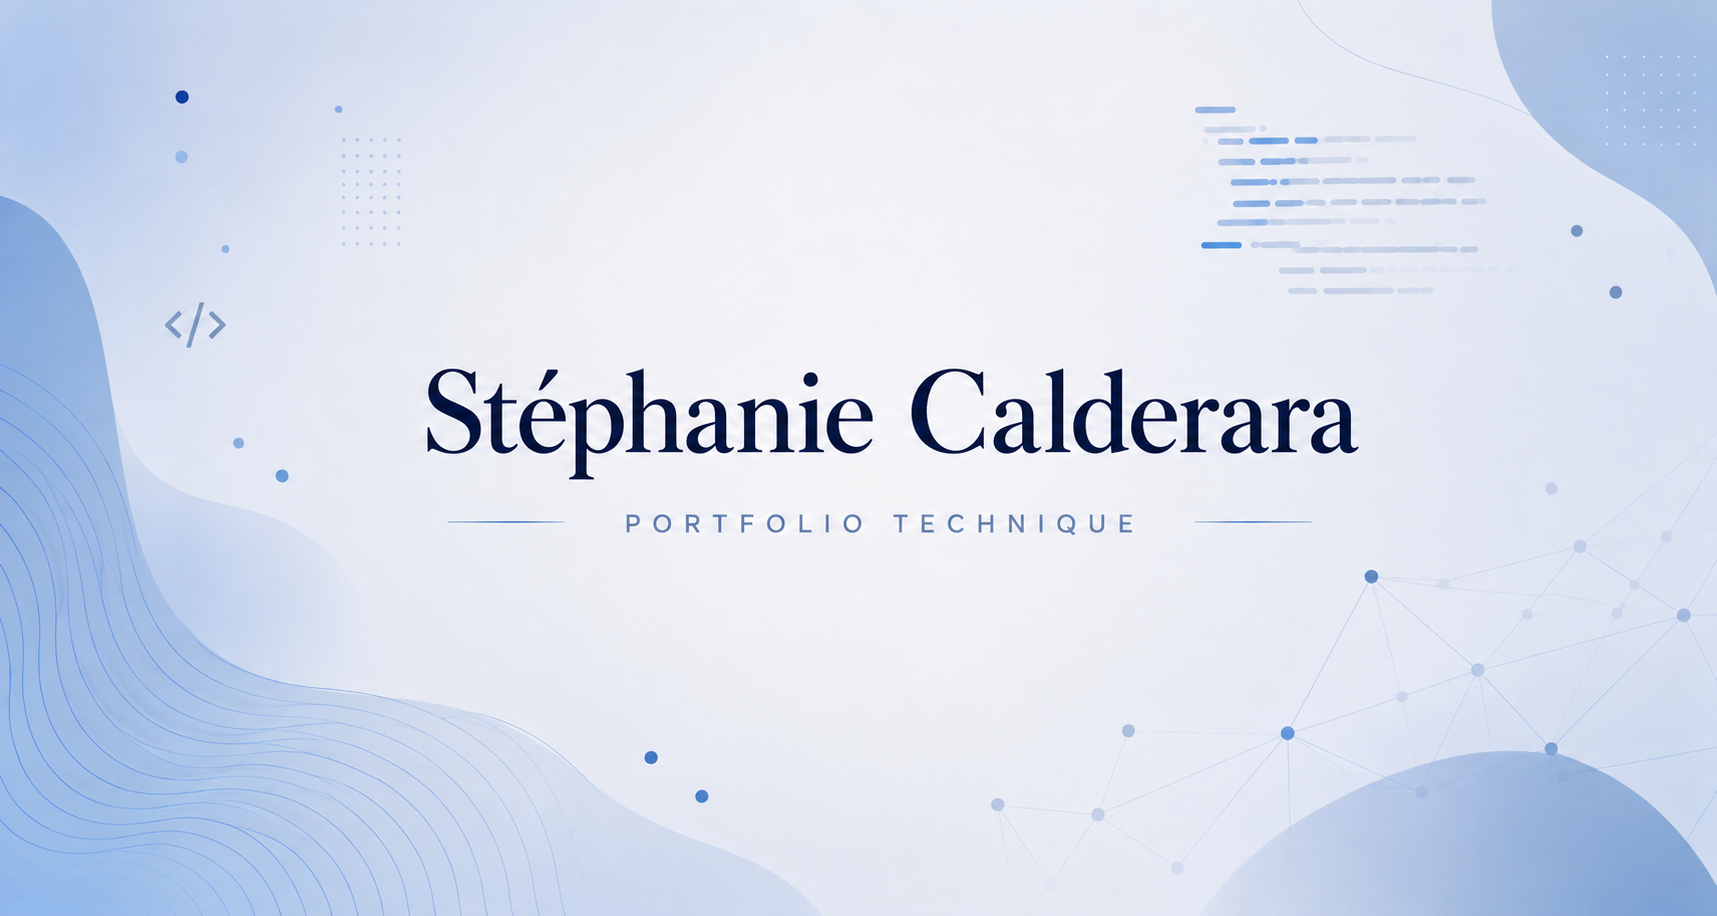
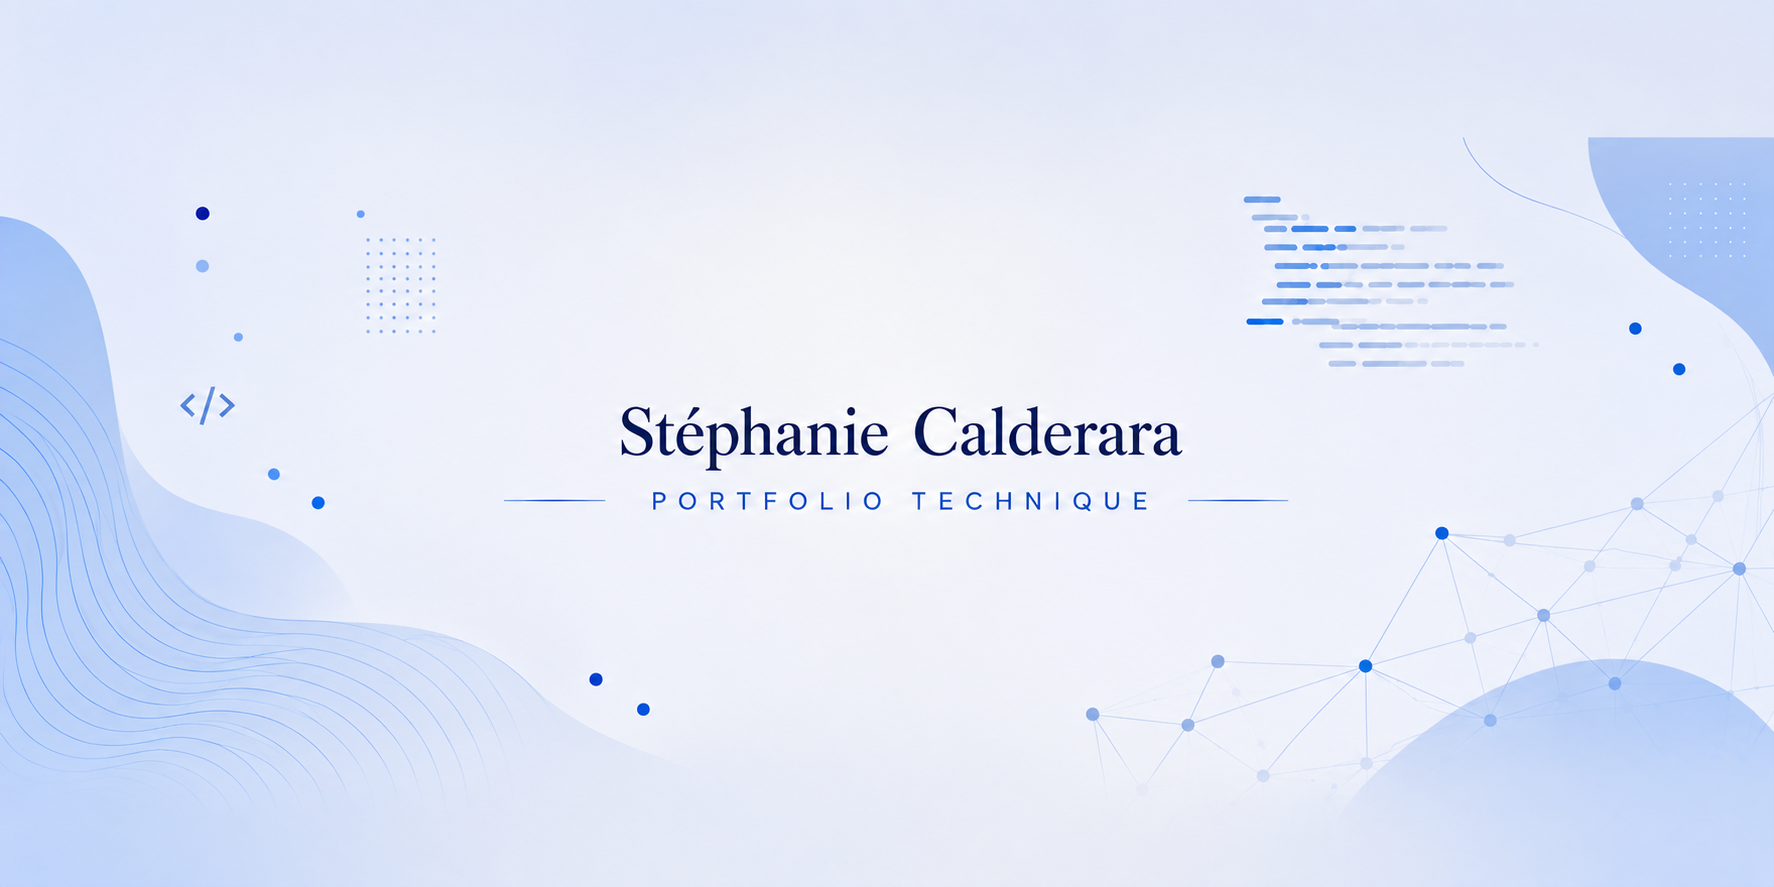
bannière

diff --git a/styles.css b/styles.css
@@ -15,37 +15,6 @@ section li {
     box-shadow: 0 2px 6px rgba(0,0,0,0.06);
 }
 
-header {
-    background-color: white;
-    padding: 30px 20px;
-    text-align: center;
-    border-bottom: 1px solid #e5e5e5;
-}
-
-header h1 {
-    margin: 0;
-    font-size: 2rem;
-    color: #222;
-}
-
-header p {
-    margin: 8px 0 20px;
-    color: #555;
-}
-
-nav {
-    display: flex;
-    justify-content: center;
-    gap: 25px;
-}
-
-nav a {
-    color: #222;
-    text-decoration: none;
-    margin: 0 10px;
-    font-weight: bold;
-}
-
 body {
     font-family: 'Inter', sans-serif;
     margin: 0;
@@ -102,61 +71,46 @@ article img {
 }
 
 .site-header {
-    background: transparent;
     padding: 2rem 1rem 1rem;
+    background: transparent;
     text-align: center;
     border-bottom: none;
-    box-shadow: none
+    box-shadow: none;
 }
 
 .hero-banner {
-    max-width: 1200px;
-    height: 320px;
-    margin: 0 auto 1.5rem;
-    border-radius: 20px;
-    background-image: url('images/header-banner.png');
-    background-size: cover;
-    background-position: center;
-    background-repeat: no-repeat;
-    box-shadow: 0 10px 30px rgba(0, 0, 0, 0.08);
-}
-
-.language-switch {
-    display: none;
-    position: absolute;
-    top: 1.2rem;
-    right: 1.5rem;
-
-    text-decoration: none;
-    color: #555;
-    border: 1px solid #ddd;
-    border-radius: 999px;
-    padding: 0.4rem 0.8rem;
-    font-size: 0.9rem;
-
-    transition: background-color 0.2s ease, color 0.2s ease;
-}
-
-.language-switch:hover {
-    background-color: #555;
-    color: white;
-}
-
-.mobile-lang {
-    display: none;
-}
-
-.header-content {
-    max-width: 1000px;
+    position: relative;
+    max-width: 980px;
+    height: 210px;
     margin: 0 auto;
+    border-radius: 24px;
+    overflow: hidden;
+    box-shadow: 0 12px 35px rgba(0,0,0,0.12);
+}
+
+.hero-banner img {
+    width: 100%;
+    height: 100%;
+    object-fit: cover;
+    object-position: center 65%;
+    display: block;
 }
 
 .main-nav {
+    position: absolute;
+    bottom: 28px;
+    left: 50%;
+    transform: translateX(-50%);
+
     display: flex;
     justify-content: center;
     gap: 0.8rem;
-    flex-wrap: wrap;
-    margin-top: 0;
+    flex-wrap: nowrap;
+
+    background: rgba(255,255,255,0.82);
+    backdrop-filter: blur(10px);
+    padding: 0.5rem;
+    border-radius: 999px;
 }
 
 .main-nav a {

diff --git a/projets/site-web-tb.html b/projets/site-web-tb.html
@@ -6,24 +6,23 @@
     <meta name="viewport" content="width=device-width, initial-scale=1.0">
     <link rel="stylesheet" href="../styles.css">
     <link rel="stylesheet" href="https://cdnjs.cloudflare.com/ajax/libs/glightbox/3.3.1/css/glightbox.css">
+    <link rel="preconnect" href="https://fonts.googleapis.com">
+    <link rel="preconnect" href="https://fonts.gstatic.com" crossorigin>
+    <link href="https://fonts.googleapis.com/css2?family=Inter:wght@400;500;600;700&display=swap" rel="stylesheet">
     <title>Prototype site web - Stéphanie Calderara</title>
 </head>
 
 <body>
     <header class="site-header">
-        <a href="de/index.html" class="language-switch">DE</a>
-        
-        <div class="header-content">
-            <h1>Stéphanie Calderara</h1>
-            <p>Portfolio technique</p>
+        <div class="hero-banner">
+            <img src="../images/header-banner.png" alt="Stéphanie Calderara - Portfolio technique">
 
             <nav class="main-nav">
                 <a href="../index.html" class="active">Projets</a>
                 <a href="../cv/cv-stephanie-calderara.pdf" target="_blank">CV</a>
-                <a href="../contact.html">Contact</a>
-                <a href="../de/index.html" class="mobile-lang">DE</a>          
+                <a href="../contact.html">Contact</a>         
             </nav>
-        </div>
+        </div>  
     </header>
 
     <main>

diff --git a/projets/speech-timer.html b/projets/speech-timer.html
@@ -6,24 +6,23 @@
     <meta name="viewport" content="width=device-width, initial-scale=1.0">
     <link rel="stylesheet" href="../styles.css">
     <link rel="stylesheet" href="https://cdnjs.cloudflare.com/ajax/libs/glightbox/3.3.1/css/glightbox.css">
+    <link rel="preconnect" href="https://fonts.googleapis.com">
+    <link rel="preconnect" href="https://fonts.gstatic.com" crossorigin>
+    <link href="https://fonts.googleapis.com/css2?family=Inter:wght@400;500;600;700&display=swap" rel="stylesheet">
     <title>Speech Timer - Stéphanie Calderara</title>
 </head>
 
 <body>
     <header class="site-header">
-        <a href="de/index.html" class="language-switch">DE</a>
-        
-        <div class="header-content">
-            <h1>Stéphanie Calderara</h1>
-            <p>Portfolio technique</p>
+        <div class="hero-banner">
+            <img src="../images/header-banner.png" alt="Stéphanie Calderara - Portfolio technique">
 
             <nav class="main-nav">
                 <a href="../index.html" class="active">Projets</a>
                 <a href="../cv/cv-stephanie-calderara.pdf" target="_blank">CV</a>
-                <a href="../contact.html">Contact</a>
-                <a href="../de/index.html" class="mobile-lang">DE</a>          
+                <a href="../contact.html">Contact</a>         
             </nav>
-        </div>
+        </div>  
     </header>
 
     <main>

diff --git a/projets/meteo.html b/projets/meteo.html
@@ -6,24 +6,23 @@
     <meta name="viewport" content="width=device-width, initial-scale=1.0">
     <link rel="stylesheet" href="../styles.css">
     <link rel="stylesheet" href="https://cdnjs.cloudflare.com/ajax/libs/glightbox/3.3.1/css/glightbox.css">
+    <link rel="preconnect" href="https://fonts.googleapis.com">
+    <link rel="preconnect" href="https://fonts.gstatic.com" crossorigin>
+    <link href="https://fonts.googleapis.com/css2?family=Inter:wght@400;500;600;700&display=swap" rel="stylesheet">
     <title>Météo - Stéphanie Calderara</title>
 </head>
 
 <body>
     <header class="site-header">
-        <a href="de/index.html" class="language-switch">DE</a>
-        
-        <div class="header-content">
-            <h1>Stéphanie Calderara</h1>
-            <p>Portfolio technique</p>
+        <div class="hero-banner">
+            <img src="../images/header-banner.png" alt="Stéphanie Calderara - Portfolio technique">
 
             <nav class="main-nav">
                 <a href="../index.html" class="active">Projets</a>
                 <a href="../cv/cv-stephanie-calderara.pdf" target="_blank">CV</a>
-                <a href="../contact.html">Contact</a>
-                <a href="../de/index.html" class="mobile-lang">DE</a>          
+                <a href="../contact.html">Contact</a>         
             </nav>
-        </div>
+        </div>  
     </header>
 
     <main>

diff --git a/projets/tb2go.html b/projets/tb2go.html
@@ -6,24 +6,23 @@
     <meta name="viewport" content="width=device-width, initial-scale=1.0">
     <link rel="stylesheet" href="../styles.css">
     <link rel="stylesheet" href="https://cdnjs.cloudflare.com/ajax/libs/glightbox/3.3.1/css/glightbox.css">
+    <link rel="preconnect" href="https://fonts.googleapis.com">
+    <link rel="preconnect" href="https://fonts.gstatic.com" crossorigin>
+    <link href="https://fonts.googleapis.com/css2?family=Inter:wght@400;500;600;700&display=swap" rel="stylesheet">
     <title>TB2Go - Stéphanie Calderara</title>
 </head>
 
 <body>
     <header class="site-header">
-        <a href="de/index.html" class="language-switch">DE</a>
-        
-        <div class="header-content">
-            <h1>Stéphanie Calderara</h1>
-            <p>Portfolio technique</p>
+        <div class="hero-banner">
+            <img src="../images/header-banner.png" alt="Stéphanie Calderara - Portfolio technique">
 
             <nav class="main-nav">
                 <a href="../index.html" class="active">Projets</a>
                 <a href="../cv/cv-stephanie-calderara.pdf" target="_blank">CV</a>
-                <a href="../contact.html">Contact</a>
-                <a href="../de/index.html" class="mobile-lang">DE</a>          
+                <a href="../contact.html">Contact</a>         
             </nav>
-        </div>
+        </div>  
     </header>
 
     <main>

diff --git a/contact.html b/contact.html
@@ -4,25 +4,24 @@
 <head>
     <meta charset="UTF-8">
     <meta name="viewport" content="width=device-width, initial-scale=1.0">
+    <link rel="preconnect" href="https://fonts.googleapis.com">
+    <link rel="preconnect" href="https://fonts.gstatic.com" crossorigin>
+    <link href="https://fonts.googleapis.com/css2?family=Inter:wght@400;500;600;700&display=swap" rel="stylesheet">
     <link rel="stylesheet" href="styles.css">
     <title>Portfolio - Stéphanie Calderara</title>
 </head>
 
 <body>
     <header class="site-header">
-        <a href="de/index.html" class="language-switch">DE</a>
-        
-        <div class="header-content">
-            <h1>Stéphanie Calderara</h1>
-            <p>Portfolio technique</p>
+        <div class="hero-banner">
+            <img src="images/header-banner.png" alt="Stéphanie Calderara - Portfolio technique">
 
             <nav class="main-nav">
                 <a href="index.html" class="active">Projets</a>
                 <a href="cv/cv-stephanie-calderara.pdf" target="_blank">CV</a>
-                <a href="contact.html">Contact</a>
-                <a href="de/index.html" class="mobile-lang">DE</a>          
+                <a href="contact.html">Contact</a>         
             </nav>
-        </div>
+        </div>  
     </header>
 
     <main>

diff --git a/index.html b/index.html
@@ -13,14 +13,15 @@
 
 <body>
     <header class="site-header">
-        <a href="de/index.html" class="language-switch">DE</a>
+        <div class="hero-banner">
+            <img src="images/header-banner.png" alt="Stéphanie Calderara - Portfolio technique">
 
-        <nav class="main-nav">
-            <a href="#projets" class="active">Projets</a>
-            <a href="cv/cv-stephanie-calderara.pdf" target="_blank">CV</a>
-            <a href="contact.html">Contact</a>
-            <a href="de/index.html" class="mobile-lang">DE</a>          
-        </nav>
+            <nav class="main-nav">
+                <a href="#projets" class="active">Projets</a>
+                <a href="cv/cv-stephanie-calderara.pdf" target="_blank">CV</a>
+                <a href="contact.html">Contact</a>         
+            </nav>
+        </div>  
     </header>
 
     <main>
